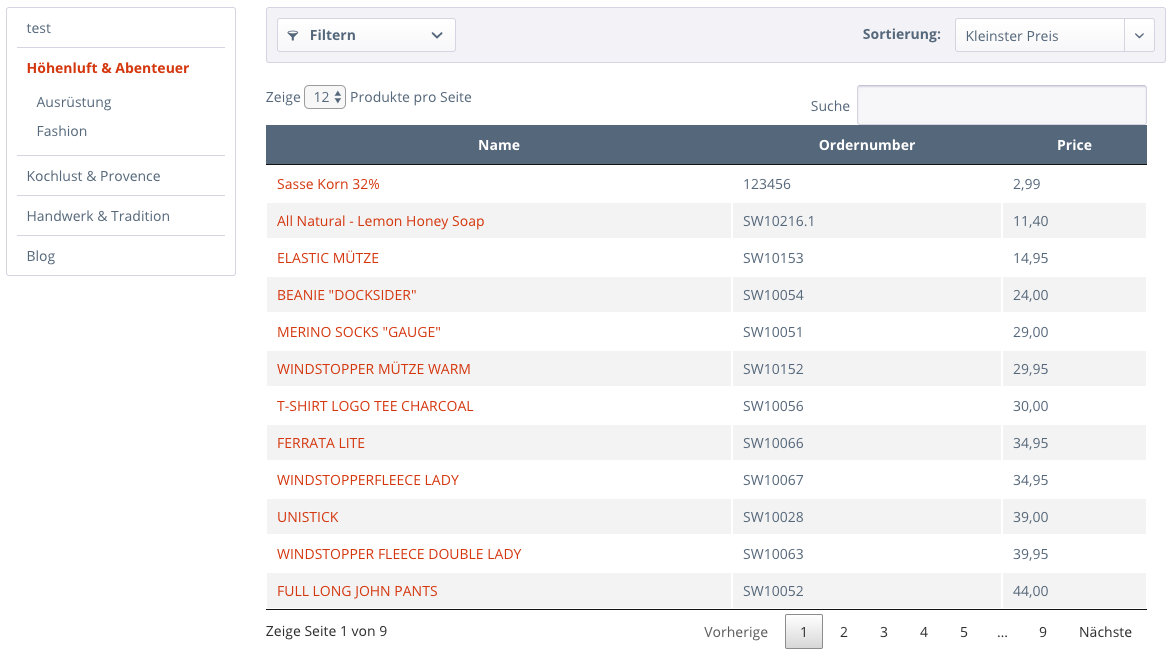
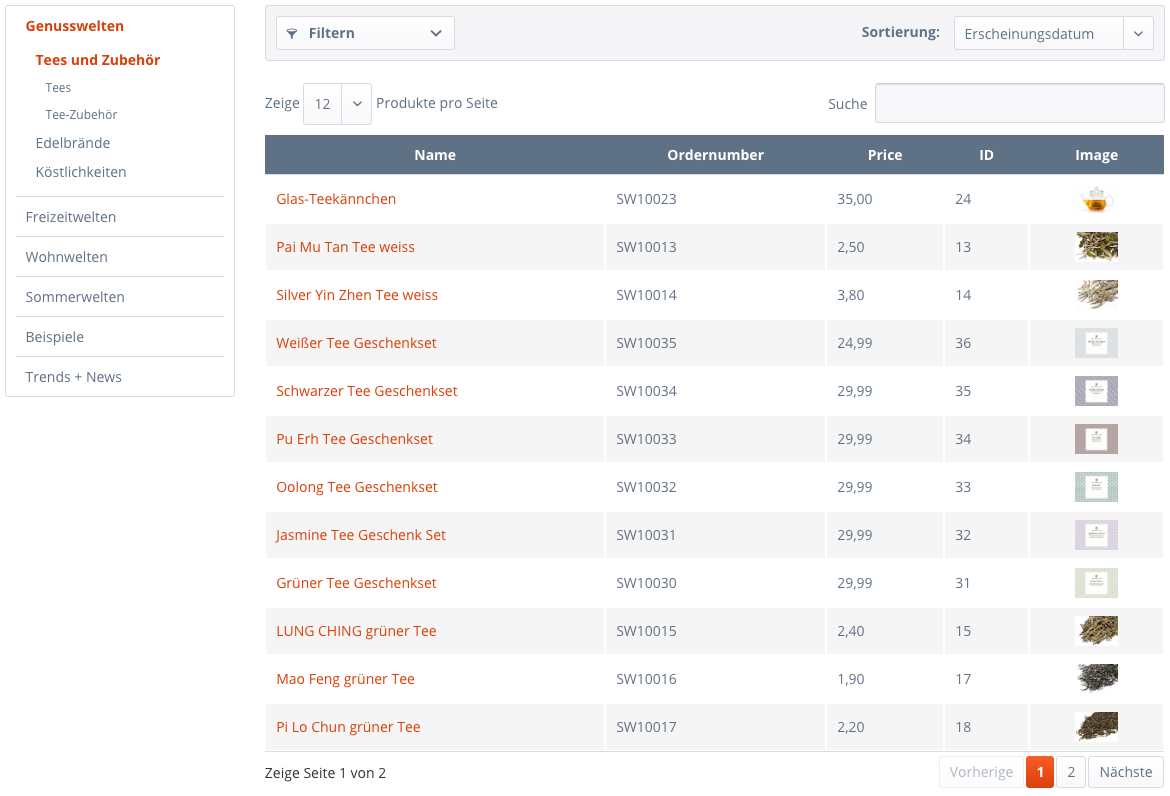
style table according to responsive theme

diff --git a/Resources/views/frontend/_public/src/less/jquery.dataTables.less b/Resources/views/frontend/_public/src/less/jquery.dataTables.less
@@ -21,7 +21,7 @@ table.dataTable tfoot th {
 table.dataTable thead th,
 table.dataTable thead td {
   padding: 10px 18px;
-  border-bottom: 1px solid #111;
+  border-bottom: 1px solid @gray-dark;
 }
 table.dataTable thead th:active,
 table.dataTable thead td:active {
@@ -30,7 +30,7 @@ table.dataTable thead td:active {
 table.dataTable tfoot th,
 table.dataTable tfoot td {
   padding: 10px 18px 6px 18px;
-  border-top: 1px solid #111;
+  border-top: 1px solid @gray-dark;
 }
 table.dataTable thead .sorting,
 table.dataTable thead .sorting_asc,
@@ -168,7 +168,7 @@ table.dataTable.display tbody tr:hover.selected > .sorting_3, table.dataTable.or
   background-color: #a5b2cb;
 }
 table.dataTable.no-footer {
-  border-bottom: 1px solid #111;
+  border-bottom: 1px solid @gray-dark;
 }
 table.dataTable.nowrap th, table.dataTable.nowrap td {
   white-space: nowrap;
@@ -272,15 +272,20 @@ table.dataTable td {
   *zoom: 1;
   zoom: 1;
   margin-left: 2%;
-  margin-right: 2%;
   padding-top: 20px;
 }
 .dataTables_wrapper .dataTables_length {
   float: left;
+  margin-bottom: 10px;
+  .select-field {
+    width: auto;
+    vertical-align: middle;
+  }
 }
 .dataTables_wrapper .dataTables_filter {
   float: right;
   text-align: right;
+  margin-bottom: 10px;
 }
 .dataTables_wrapper .dataTables_filter input {
   margin-left: 0.5em;
@@ -415,7 +420,7 @@ table.dataTable td {
   padding: 0 !important;
 }
 .dataTables_wrapper.no-footer .dataTables_scrollBody {
-  border-bottom: 1px solid #111;
+  border-bottom: 1px solid @gray-dark;
 }
 .dataTables_wrapper.no-footer div.dataTables_scrollHead table.dataTable,
 .dataTables_wrapper.no-footer div.dataTables_scrollBody > table {

diff --git a/Resources/views/frontend/_public/src/js/jquery.dataTables.js b/Resources/views/frontend/_public/src/js/jquery.dataTables.js
@@ -4834,7 +4834,7 @@
 		}
 	
 		div.children().append(
-			settings.oLanguage.sLengthMenu.replace( '_MENU_', select[0].outerHTML )
+			settings.oLanguage.sLengthMenu.replace( '_MENU_', '<div class="select-field">' + select[0].outerHTML + '</div>' )
 		);
 	
 		// Can't use `select` variable as user might provide their own and the
@@ -14391,9 +14391,9 @@
 		"sNoFooter": "no-footer",
 	
 		/* Paging buttons */
-		"sPageButton": "paginate_button",
-		"sPageButtonActive": "current",
-		"sPageButtonDisabled": "disabled",
+		"sPageButton": "btn paging--link",
+		"sPageButtonActive": "is--active",
+		"sPageButtonDisabled": "is--disabled",
 	
 		/* Striping classes */
 		"sStripeOdd": "odd",
@@ -14406,7 +14406,7 @@
 		"sWrapper": "dataTables_wrapper",
 		"sFilter": "dataTables_filter",
 		"sInfo": "dataTables_info",
-		"sPaging": "dataTables_paginate paging_", /* Note that the type is postfixed */
+		"sPaging": "panel--paging dataTables_paginate paging_", /* Note that the type is postfixed */
 		"sLength": "dataTables_length",
 		"sProcessing": "dataTables_processing",
 	
